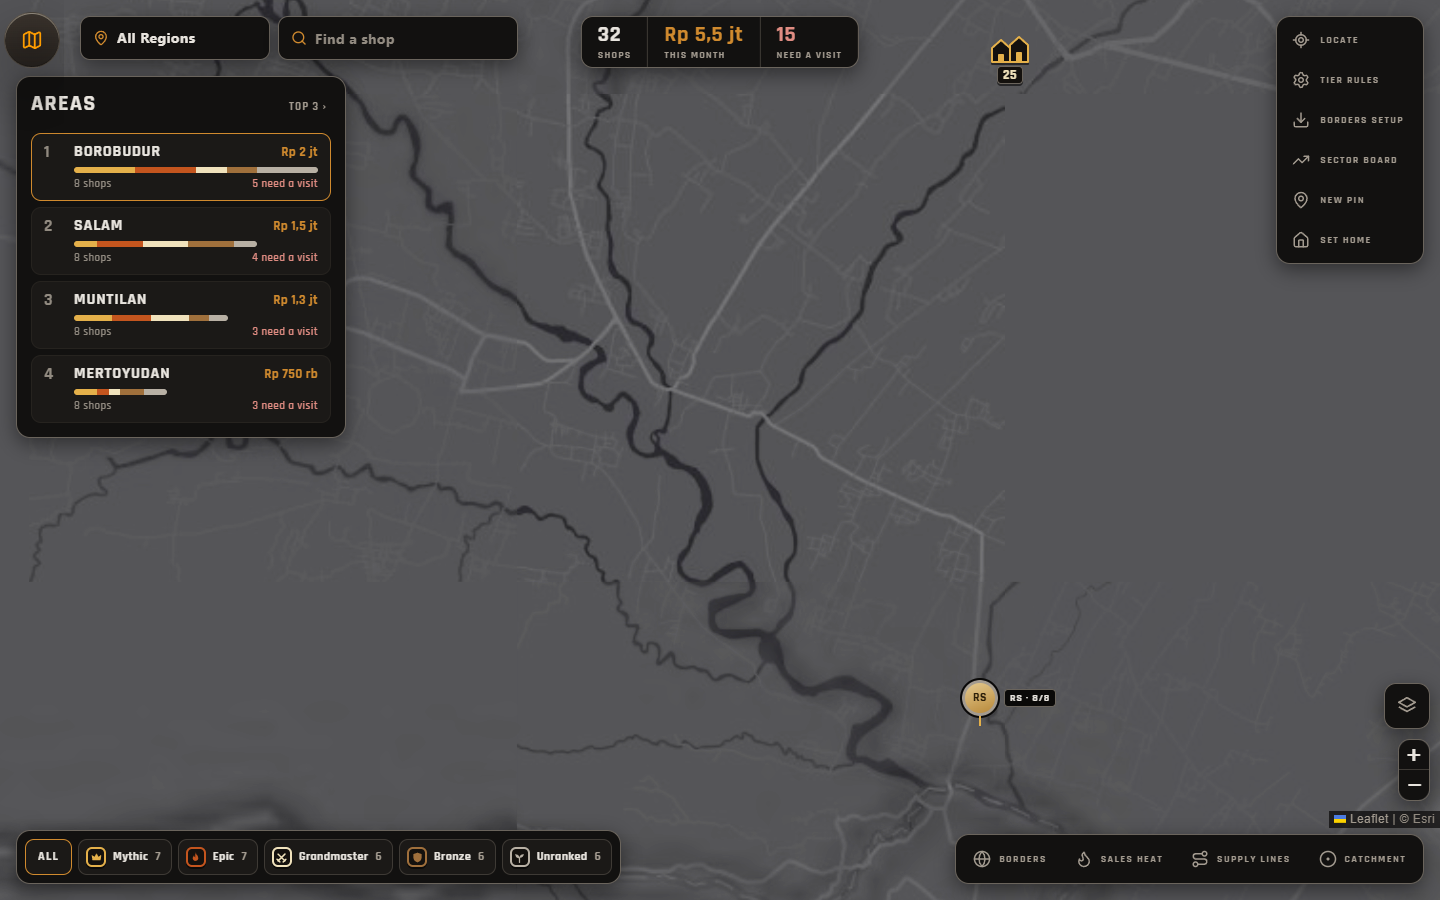
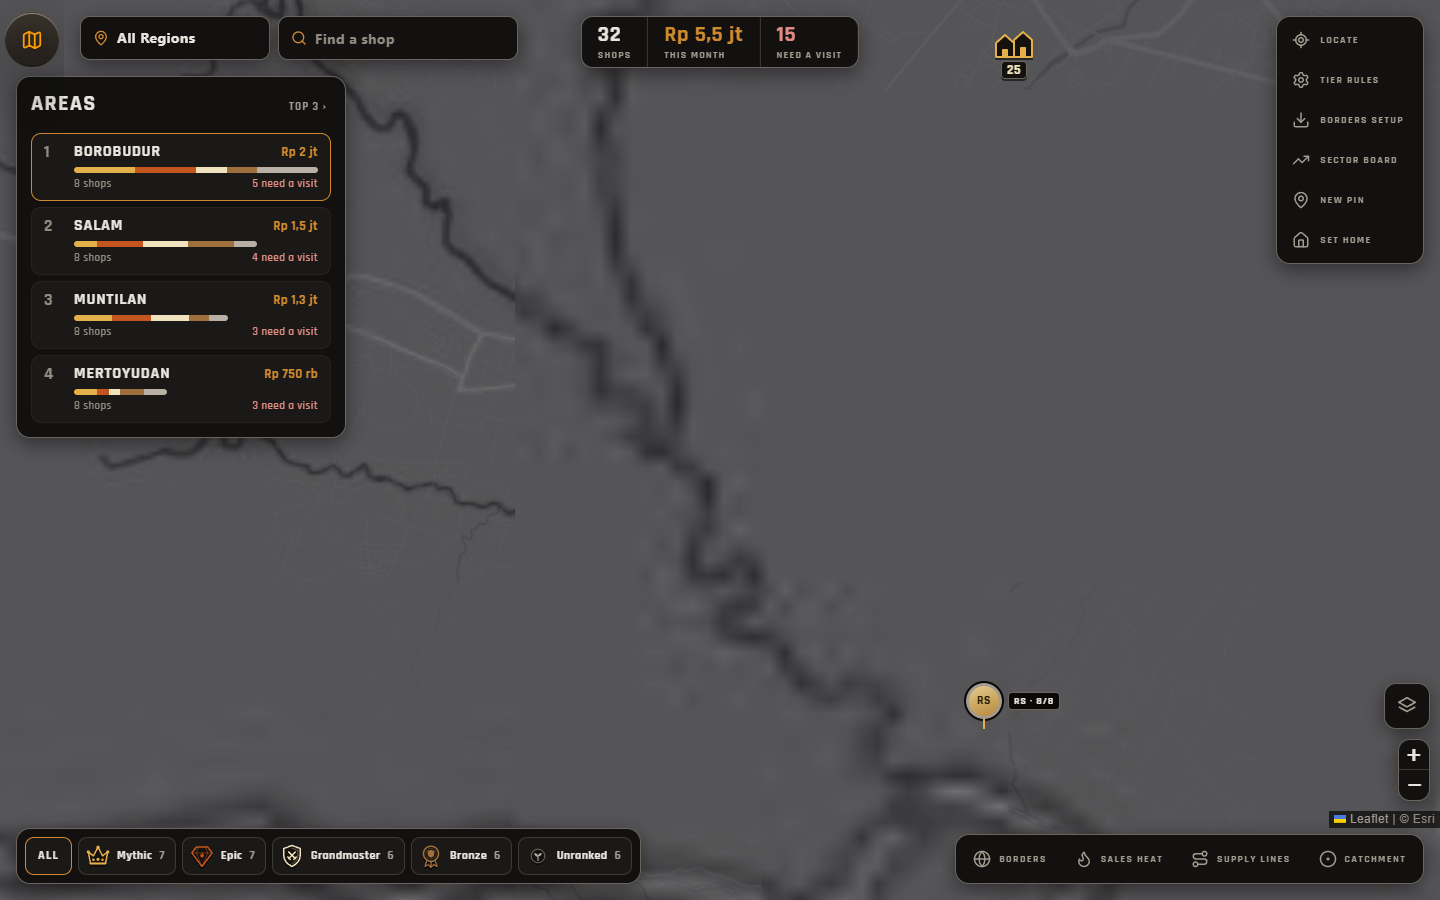
Map System redesign done: rank medals + royal crown built (kpm 5aa0b80)

diff --git a/Brainstorm/2026-10-05_map-system-redesign.md b/Brainstorm/2026-10-05_map-system-redesign.md
@@ -1,6 +1,6 @@
 ---
 date: 2026-10-05
-status: BUILT 10:55 (57abe25) + rounds 2-4 (b93540f, 00d787c, 7f88984, 1e9fc8b); tier set = B (rank medals), MYTHIC pick OPEN
+status: DONE 2026-10-05 12:44 - redesign + rounds 2-5 built (57abe25 .. 5aa0b80), local, not pushed
 page: https://claude.ai/artifact/WxW6xpYd3dhLhyEwZ6Gn8u
 source: Raw/2026-10-05-map-system/map-system-redesign.html (frames: pc-*.png, ph-*.png, states.json)
 ---
@@ -143,6 +143,14 @@ the area bars and the card badge must take the same drawings.
 crown in a medallion) is REJECTED. Three new Mythics drawn on page v5 section 0 (the page's `MY` table is the spec):
 A royal crown (big crown alone, three gems) · B champion trophy (gold cup with a star) · **C star order (MY PICK)** (gold star medal
 on a double ribbon, gem heart - the gold twin of the bronze medal, so the ladder reads as one family). Decision: OPEN.
+
+## Round 5 closed (2026-10-05 12:40) - "A is good"
+
+His Mythic = **A, the royal crown**. BUILT with set B, kpm `5aa0b80`: sprout ring 22 / bronze medal on a ribbon 24 / silver kite
+shield 26 / ember gem 28 / royal crown 32 px; the square plate gone; pressed = a cream ring; chips at one size (fit 24); the hit
+box grows with the medal. The Map System redesign is DONE end to end (57abe25, b93540f, 00d787c, 7f88984, 1e9fc8b, 5aa0b80 -
+all local, not pushed). Still unasked-about: the imported area borders keep their random bright colours (pink / cyan / green -
+the importer's palette), raised once in a reply, no answer.
 
 ## Rejected on purpose
 - The winged crown in a medallion as Mythic (his "i dont like the mythic logo", 12:30).

diff --git a/Wiki/Concepts/Aldi's Design Taste.md b/Wiki/Concepts/Aldi's Design Taste.md
@@ -3307,3 +3307,7 @@ the word), each at map size and zoomed, in a grey view, each acting out its word
 - **12:15:** *"B is better but we need set of of new tier symbol as well to better show their exclusiveness"* - he took the
   object (the market town) for the groups, and asked that a RANK look like a rank: the ladder must show who is rare, not just
   which colour a shop is. Equal plates for every level read as "all the same" to him.
+
+- **12:30 - 12:40:** *"rank medal is cool but i dont like the mythic logo"* then *"A is good"* - he rejected the busiest drawing
+  (a crown in a medallion with feathered wings) for the plainest strong one (a big crown alone). At the top of a ladder he wants
+  ONE bold object, not decoration around it.

diff --git a/Wiki/Log.md b/Wiki/Log.md
@@ -1596,3 +1596,7 @@ https://claude.ai/artifact/J7Y5RdwwUhtRPas3KP8Fti · [[2026-10-05_map-system-red
 ## 2026-10-05 12:32 — Map System: tier set B (rank medals) chosen, its Mythic rejected; three Mythics drawn, OPEN
 
 [[2026-10-05_map-system-redesign]] (Round 5) · page v5 https://claude.ai/artifact/J7Y5RdwwUhtRPas3KP8Fti.
+
+## 2026-10-05 12:45 — Map System: rank medals + royal-crown Mythic BUILT (kpm 5aa0b80); the redesign is done
+
+[[2026-10-05_map-system-redesign]] closed. Next: the Day Replay (kpm NEXT-SESSION.md).
